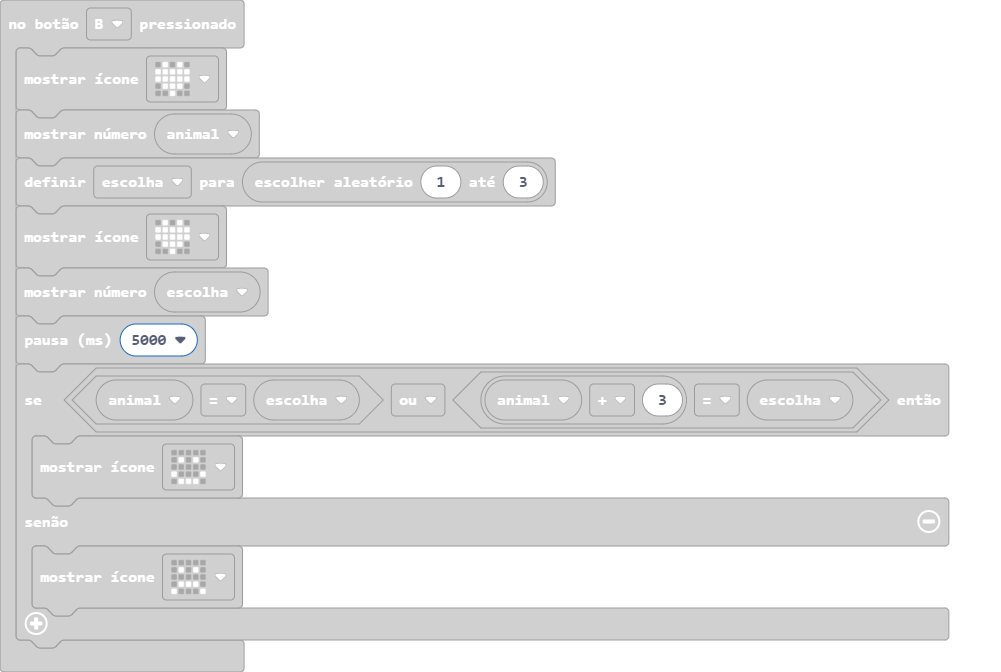
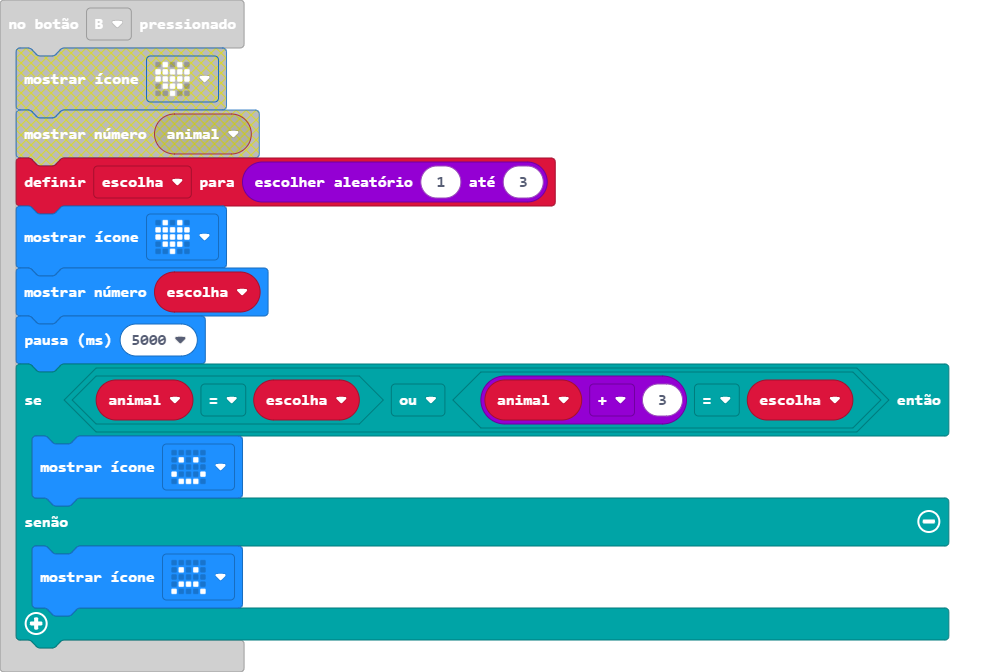
Atualizar 'pxt.json, main.blocks, main.ts'

diff --git a/main.ts b/main.ts
@@ -10,8 +10,6 @@ input.onButtonPressed(Button.A, function () {
     }
 })
 input.onButtonPressed(Button.B, function () {
-    basic.showIcon(IconNames.Heart)
-    basic.showNumber(animal)
     escolha = randint(1, 3)
     basic.showIcon(IconNames.Heart)
     basic.showNumber(escolha)
